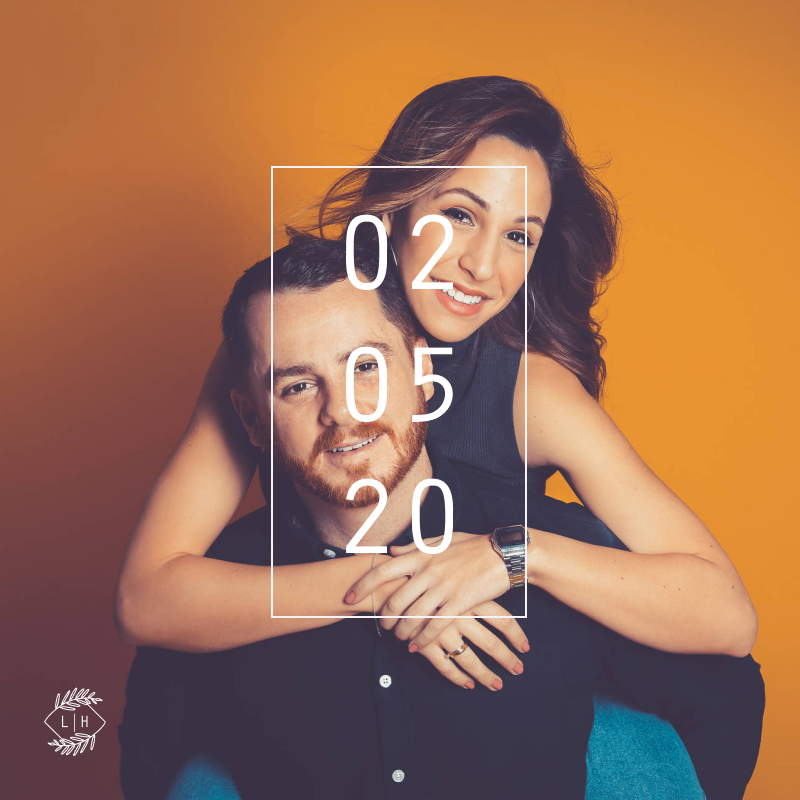
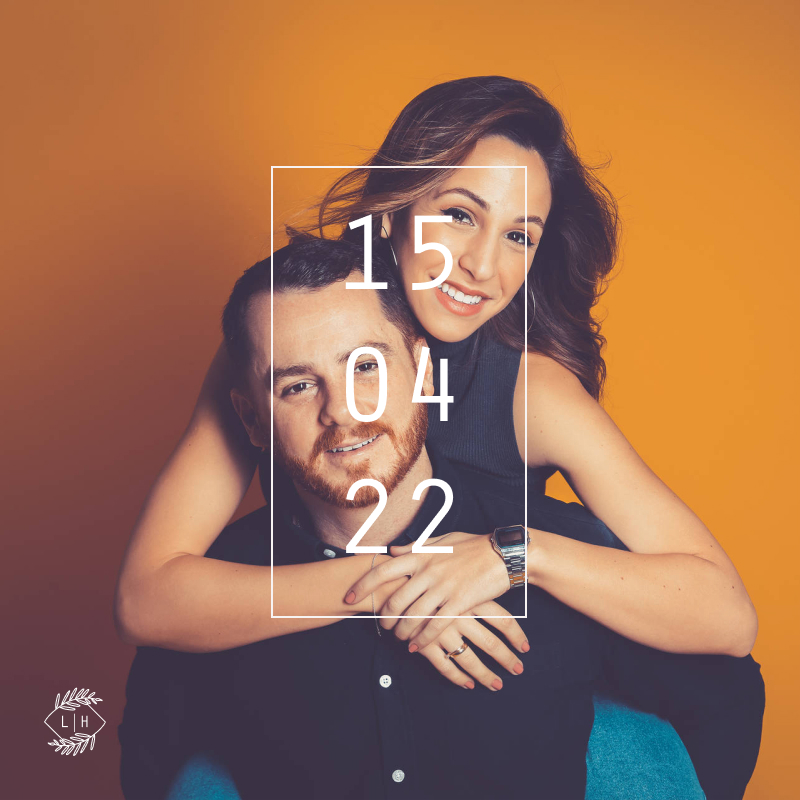
Update meta tags

Changed region(s): [[0.4062, 0.25, 0.5625, 0.375], [0.5, 0.4062, 0.5625, 0.5312], [0.5, 0.5938, 0.5938, 0.6875]]

diff --git a/src/data/siteMetadata.js b/src/data/siteMetadata.js
@@ -3,12 +3,12 @@ const languages = require("./languages");
 module.exports = {
   siteUrl: "https://www.luehugo.us",
   description:
-    "Queridos amigos! Esperamos vocês no nosso dia especial: 27 de fevereiro de 2021! Reserve essa data e venha comemorar conosco! 🧡",
+    "Queridos amigos! Esperamos vocês no nosso dia especial: 15 de Abril de 2022! Reserve essa data e venha comemorar conosco! 🧡",
   // description: {
   //   pt:
-  //     "Queridos amigos! Esperamos vocês no nosso dia especial: 27 de fevereiro de 2021! Reserve essa data e venha comemorar conosco! 🧡",
+  //     "Queridos amigos! Esperamos vocês no nosso dia especial: 15 de Abril de 2022 de 2022! Reserve essa data e venha comemorar conosco! 🧡",
   //   en:
-  //     "Dear friends! We look forward to having you with us in our great day! February 27th, 2021! 🧡",
+  //     "Dear friends! We look forward to having you with us in our great day! April 15th, 2022! 🧡",
   // },
   author: {
     name: "Hugo Nogueira",

diff --git a/src/components/pages/SaveTheDate.js b/src/components/pages/SaveTheDate.js
@@ -5,7 +5,7 @@ import Helmet from "react-helmet";
 
 const SaveTheDate = props => {
   const title = `Save the Date | Lunara & Hugo`;
-  const description = `Queridos amigos! Esperamos vocês no nosso dia especial: 27 de fevereiro de 2021! Reserve essa data e venha comemorar conosco! ❤`;
+  const description = `Queridos amigos! Esperamos vocês no nosso dia especial: 15 de Abril de 2022! Reserve essa data e venha comemorar conosco! ❤`;
   return (
     <MainContainer>
       <Helmet defaultTitle={title}>
